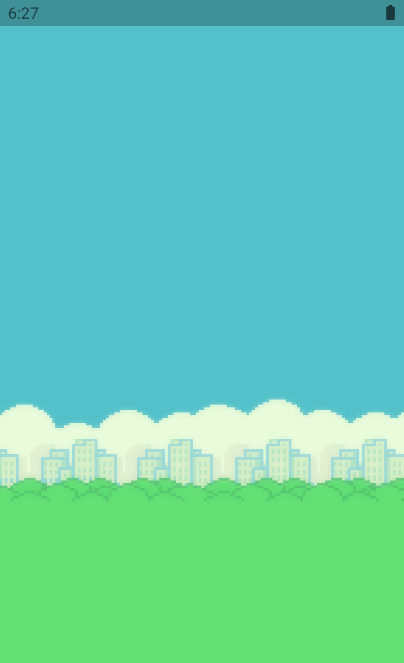
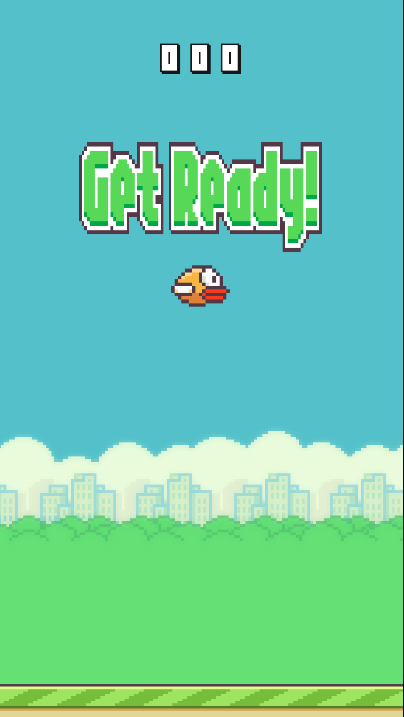
2021.02.20.

diff --git a/lib/components/score.dart b/lib/components/score.dart
@@ -1,0 +1,103 @@
+import 'dart:collection';
+import 'dart:ui';
+
+import 'package:flame/components/component.dart';
+import 'package:flame/sprite.dart';
+import 'package:flutter_flappy_game/consts/sprite_dimentions.dart';
+import 'package:flutter_flappy_game/main.dart';
+
+class Score extends PositionComponent {
+  static final double numW = size.width / 20;
+  static final double numH = numW / 12 * 18;
+  HashMap<String, Sprite> _digits;
+
+  SpriteComponent _oneDigit;
+  SpriteComponent _twoDigit;
+  SpriteComponent _threeDigit;
+
+  int _score = 0;
+
+  Score()
+      : _digits = HashMap.from({
+          "0": Sprite.fromImage(SpriteSheet,
+              width: SpirteDimentions.numberWidth,
+              height: SpirteDimentions.numberHeight,
+              x: SpritePosition.zeroNumberX,
+              y: SpritePosition.zeroNumberY),
+          "1": Sprite.fromImage(SpriteSheet,
+              width: SpirteDimentions.numberWidth,
+              height: SpirteDimentions.numberHeight,
+              x: SpritePosition.firstNumberX,
+              y: SpritePosition.firstNumberY),
+          "2": Sprite.fromImage(SpriteSheet,
+              width: SpirteDimentions.numberWidth,
+              height: SpirteDimentions.numberHeight,
+              x: SpritePosition.secondNumberX,
+              y: SpritePosition.secondNumberY),
+          "3": Sprite.fromImage(SpriteSheet,
+              width: SpirteDimentions.numberWidth,
+              height: SpirteDimentions.numberHeight,
+              x: SpritePosition.thirdNumberX,
+              y: SpritePosition.thirdNumberY),
+          "4": Sprite.fromImage(SpriteSheet,
+              width: SpirteDimentions.numberWidth,
+              height: SpirteDimentions.numberHeight,
+              x: SpritePosition.fourNumberX,
+              y: SpritePosition.fourNumberY),
+          "5": Sprite.fromImage(SpriteSheet,
+              width: SpirteDimentions.numberWidth,
+              height: SpirteDimentions.numberHeight,
+              x: SpritePosition.fifthNumberX,
+              y: SpritePosition.fifthNumberY),
+          "6": Sprite.fromImage(SpriteSheet,
+              width: SpirteDimentions.numberWidth,
+              height: SpirteDimentions.numberHeight,
+              x: SpritePosition.sixthNumberX,
+              y: SpritePosition.sixthNumberY),
+          "7": Sprite.fromImage(SpriteSheet,
+              width: SpirteDimentions.numberWidth,
+              height: SpirteDimentions.numberHeight,
+              x: SpritePosition.seventhNumberX,
+              y: SpritePosition.seventhNumberY),
+          "8": Sprite.fromImage(SpriteSheet,
+              width: SpirteDimentions.numberWidth,
+              height: SpirteDimentions.numberHeight,
+              x: SpritePosition.eightNumberX,
+              y: SpritePosition.eightNumberY),
+          "9": Sprite.fromImage(SpriteSheet,
+              width: SpirteDimentions.numberWidth,
+              height: SpirteDimentions.numberHeight,
+              x: SpritePosition.ninethNumberX,
+              y: SpritePosition.ninethNumberY)
+        }) {
+    _oneDigit = SpriteComponent.fromSprite(numW, numH, _digits["0"]);
+    _twoDigit = SpriteComponent.fromSprite(numW, numH, _digits["0"]);
+    _threeDigit = SpriteComponent.fromSprite(numW, numH, _digits["0"]);
+
+    _oneDigit.x = numW * 8;
+    _twoDigit.x = numW * 1.5;
+    _threeDigit.x = numW * 1.5;
+
+    _oneDigit.y = numH * 1.5;
+  }
+
+  void addScore() {
+    _score++;
+  }
+
+  void resetScore() {
+    _score = 0;
+  }
+
+  @override
+  void render(Canvas c) {
+    String scoreInStr = _score.toString().padLeft(3, "0");
+    _oneDigit.sprite = _digits[scoreInStr[0]];
+    _twoDigit.sprite = _digits[scoreInStr[1]];
+    _threeDigit.sprite = _digits[scoreInStr[2]];
+
+    _oneDigit.render(c);
+    _twoDigit.render(c);
+    _threeDigit.render(c);
+  }
+}

diff --git a/lib/my_game.dart b/lib/my_game.dart
@@ -1,5 +1,6 @@
 import 'dart:ui';
 
+import 'package:flame/flame.dart';
 import 'package:flame/game/base_game.dart';
 import 'package:flame/game/game.dart';
 import 'package:flame/gestures.dart';
@@ -7,6 +8,7 @@ import 'package:flame/sprite.dart';
 import 'package:flutter_flappy_game/components/bird.dart';
 import 'package:flame/components/component.dart';
 import 'package:flutter_flappy_game/components/floor.dart';
+import 'package:flutter_flappy_game/components/score.dart';
 import 'package:flutter_flappy_game/components/titles.dart';
 import 'package:flutter_flappy_game/components/pipe_set.dart';
 import 'package:flutter_flappy_game/game_state.dart';
@@ -17,41 +19,52 @@ class MyGame extends BaseGame with TapDetector {
   Floor _floor;
   Titles _titles;
   PipeSet _pipeSet;
+  Score _score;
 
   MyGame() {
     _bird = Bird();
     _floor = Floor();
     _pipeSet = PipeSet();
     _titles = Titles();
+    _score = Score();
     this
       ..add(
           SpriteComponent.fromSprite(size.width, size.height, Sprite("bg.png")))
       ..add(_pipeSet)
       ..add(_bird)
       ..add(_floor)
-      ..add(_titles);
+      ..add(_titles)
+      ..add(_score);
   }
 
   @override
   void update(double t) {
     super.update(t);
 
-    if (checkIf2CompoCollision(_bird.toRect(), _floor.toRect())) {
-      print("Game Over");
-      gameState = GameState.gameover;
-    }
+    if (gameState == GameState.play) {
+      if (checkIf2CompoCollision(_bird.toRect(), _floor.toRect())) {
+        print("Game Over");
+        setGameOver();
+      }
 
-    if (checkIf2CompoCollision(_bird.toRect(), _pipeSet.getPipeUpRect())) {
-      print("Game Over");
-      gameState = GameState.gameover;
-    }
+      if (checkIf2CompoCollision(_bird.toRect(), _pipeSet.getPipeUpRect())) {
+        print("Game Over");
+        setGameOver();
+      }
 
-    if (checkIf2CompoCollision(_bird.toRect(), _pipeSet.getPipeDownRect())) {
-      print("Game Over");
-      gameState = GameState.gameover;
-    }
+      if (checkIf2CompoCollision(_bird.toRect(), _pipeSet.getPipeDownRect())) {
+        print("Game Over");
+        setGameOver();
+      }
 
-    checkIfBirdPassPipe();
+      checkIfBirdPassPipe();
+    }
+  }
+
+  void setGameOver() {
+    Flame.audio.play("hit.wav");
+    Flame.audio.play("die.mp3");
+    gameState = GameState.gameover;
   }
 
   @override
@@ -66,6 +79,7 @@ class MyGame extends BaseGame with TapDetector {
         break;
       case GameState.gameover:
         gameState = GameState.pause;
+        _score.resetScore();
         break;
     }
   }
@@ -75,14 +89,13 @@ class MyGame extends BaseGame with TapDetector {
     return intersectedRect.width > 2 && intersectedRect.height > 2;
   }
 
-  bool checkIfBirdPassPipe() {
-    if (_pipeSet.hadScored) {
-      return false;
-    } else {
-      if (_pipeSet.getPipeUpRect().right < _bird.toRect().left) {
-        print("score:");
-        _pipeSet.scoreUpdate();
-      }
+  void checkIfBirdPassPipe() {
+    if (_pipeSet.hadScored) return;
+
+    if (_pipeSet.getPipeUpRect().right < _bird.toRect().left) {
+      Flame.audio.play("point.mp3");
+      _score.addScore();
+      _pipeSet.scoreUpdate();
     }
   }
 }

diff --git a/lib/consts/sprite_dimentions.dart b/lib/consts/sprite_dimentions.dart
@@ -1,0 +1,27 @@
+class SpirteDimentions {
+  static double numberWidth = 12.0;
+  static double numberHeight = 18.0;
+}
+
+class SpritePosition {
+  static double zeroNumberX = 496.0;
+  static double zeroNumberY = 60.0;
+  static double firstNumberX = 136.0;
+  static double firstNumberY = 455.0;
+  static double secondNumberX = 292.0;
+  static double secondNumberY = 160.0;
+  static double thirdNumberX = 306.0;
+  static double thirdNumberY = 160.0;
+  static double fourNumberX = 320.0;
+  static double fourNumberY = 160.0;
+  static double fifthNumberX = 334.0;
+  static double fifthNumberY = 160.0;
+  static double sixthNumberX = 292.0;
+  static double sixthNumberY = 184.0;
+  static double seventhNumberX = 306.0;
+  static double seventhNumberY = 184.0;
+  static double eightNumberX = 320.0;
+  static double eightNumberY = 184.0;
+  static double ninethNumberX = 334.0;
+  static double ninethNumberY = 184.0;
+}
